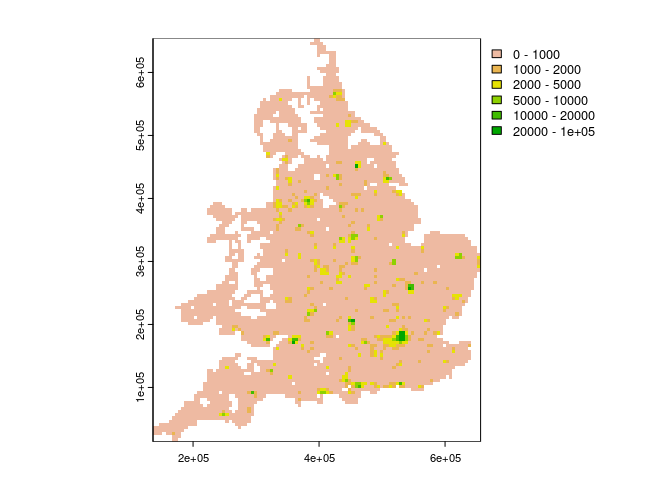
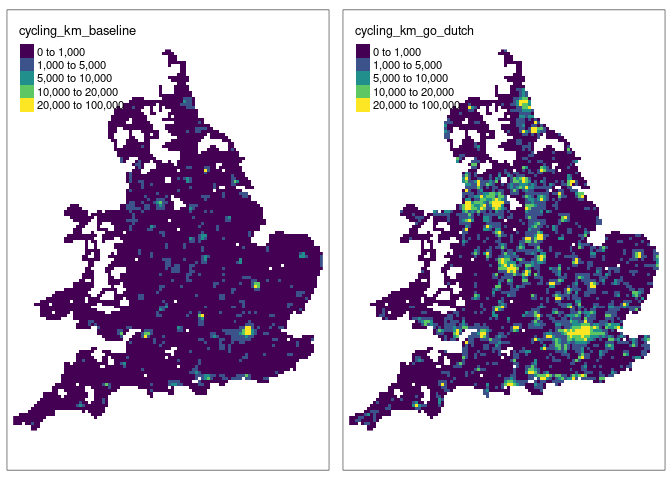
First pass of identifying MRN links associated with high active travel potential

diff --git a/README.md b/README.md
@@ -20,7 +20,6 @@ After downloading and combining the datasets, we can combine them and
 plot them as follows with R:
 
 ``` r
-# waldo::compare(names(mrn), names(srn))
 mrn_srn = rbind(mrn, srn)
 mrn_srn |>
   ggplot() +
@@ -37,43 +36,13 @@ cycling potential from the Propensity to Cycle Tool (PCT) data. We’ll
 aggregate to 1 km resolution so the operations work fast for national
 data, as a starter for 10, and smooth the data to remove noise.
 
-``` r
-if (!file.exists("pct_rnet.gpkg")) {
-  remotes::install_cran("pct")
-  pct_rnet = pct::get_pct(layer = "rnet", national = TRUE)
-  pct_projected = pct_rnet |>
-    sf::st_transform(27700)
-  pct_projected$segment_length_km = sf::st_length(pct_projected) / 1000 |>
-    as.numeric()
-  pct_projected = pct_projected |>
-    mutate(
-      cycling_km_baseline = bicycle * segment_length_km,
-      cycling_km_go_dutch = dutch_slc * segment_length_km
-    )
-  sf::write_sf(pct_projected, "pct.gpkg", delete_dsn = TRUE)
-}
-```
-
-    Skipping install of 'pct' from a cran remote, the SHA1 (0.9.9) has not changed since last install.
-      Use `force = TRUE` to force installation
-
-    Loading required package: sp
-
-``` r
-pct = sf::st_read("pct.gpkg")
-```
-
     Reading layer `pct' from data source 
       `/home/robin/github/acteng/severance/pct.gpkg' using driver `GPKG'
     Simple feature collection with 558173 features and 10 fields
     Geometry type: LINESTRING
     Dimension:     XY
-    Bounding box:  xmin: 136412.2 ymin: 14072.62 xmax: 655160.5 ymax: 654381.5
+    Bounding box:  xmin: 136416.3 ymin: 14073.94 xmax: 655158.9 ymax: 654381.8
     Projected CRS: OSGB36 / British National Grid
-
-``` r
-names(pct)
-```
 
      [1] "local_id"            "bicycle"             "govtarget_slc"      
      [4] "govnearmkt_slc"      "gendereq_slc"        "dutch_slc"          
@@ -83,13 +52,30 @@ names(pct)
 We’ll convert the pct linestring data to a 1 km raster grid with the
 {terra} package.
 
-``` r
-library(terra)
-pct_raster = terra::rast(pct, res = 5000)
-# ?rasterize
-pct_raster = terra::rasterize(pct, pct_raster, field = "cycling_km_baseline", fun = sum)
-plot(pct_raster, type = "interval", breaks = c(0, 1, 2, 5, 10, 20, 100)*1000)
-```
+    terra 1.7.71
+
+    WARNING: different compile-time and run-time versions of GEOS
+
+    Compiled with:3.11.1-CAPI-1.17.1
+
+     Running with:3.12.1-CAPI-1.18.1
+
+
+    You should reinstall package 'terra'
+
+
+    Attaching package: 'terra'
+
+    The following object is masked from 'package:tidyr':
+
+        extract
+
+    Breaking News: tmap 3.x is retiring. Please test v4, e.g. with
+    remotes::install_github('r-tmap/tmap')
+
+    Warning: Values have found that are higher than the highest break
+
+    Warning: Values have found that are higher than the highest break
 
 ![](README_files/figure-commonmark/pct-raster-1.png)
 
@@ -97,7 +83,20 @@ We can subset all grids with high cycling potential (e.g. 5000 km
 cycling potential) and extract nearby roads to calculate severance as
 follows:
 
-``` r
-# pct_raster_high = pct_raster > 5000
-# pct_raster_high_sf = terra::as.points(pct_raster_high)
-```
+    Reading layer `pct_raster_sf' from data source 
+      `/home/robin/github/acteng/severance/pct_raster_sf.gpkg' using driver `GPKG'
+    Simple feature collection with 5671 features and 1 field
+    Geometry type: POINT
+    Dimension:     XY
+    Bounding box:  xmin: 138912.2 ymin: 16572.62 xmax: 653912.2 ymax: 651572.6
+    Projected CRS: OSGB36 / British National Grid
+
+    Reading layer `mrn_srn_high' from data source 
+      `/home/robin/github/acteng/severance/mrn_srn_high.gpkg' using driver `GPKG'
+    Simple feature collection with 58782 features and 5 fields
+    Geometry type: MULTILINESTRING
+    Dimension:     XY
+    Bounding box:  xmin: 163626.3 ymin: 40666.12 xmax: 655180 ymax: 588278
+    Projected CRS: OSGB36 / British National Grid
+
+![](README_files/figure-commonmark/severance-1.png)
